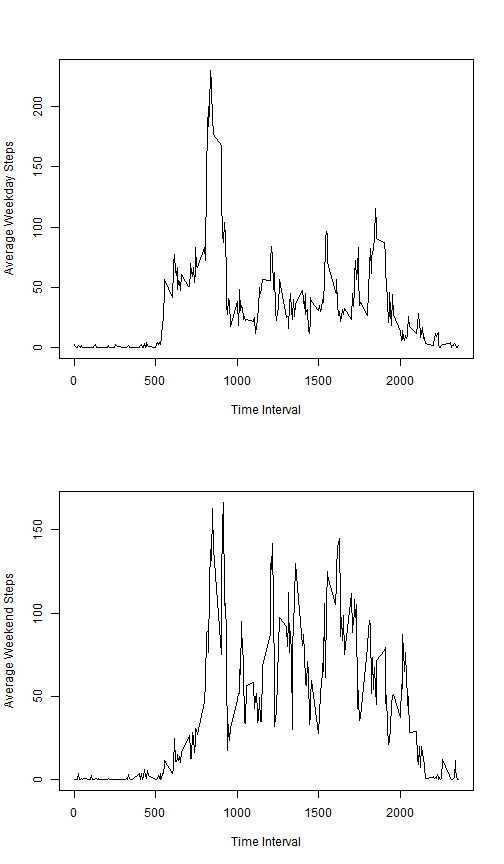
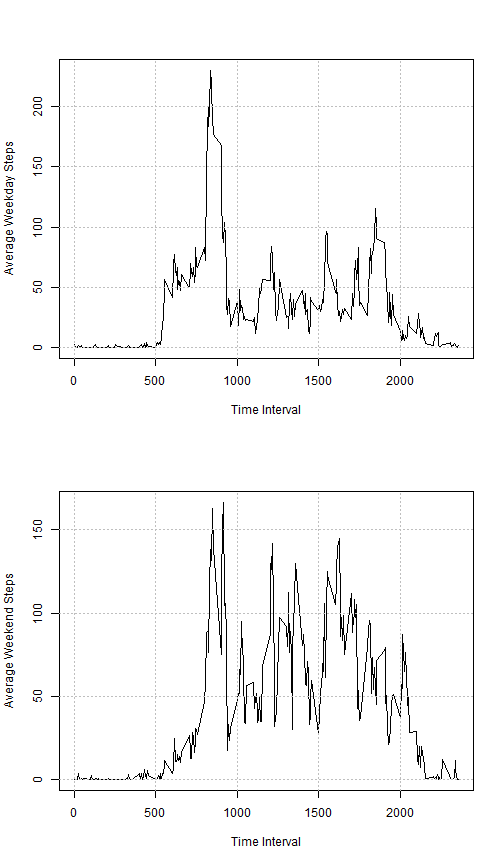
add gridlines to plots

diff --git a/PA1_template.html b/PA1_template.html
@@ -218,9 +218,10 @@ names(avg.steps)&lt;-c(&quot;interval&quot;,&quot;avgSteps&quot;)
 <h3>Time Series plot of 5-minute interval averages:</h3>
 
 <pre><code class="r">plot(avg.steps,type=&quot;l&quot;,xlab=&quot;Time Interval&quot;,ylab=&quot;Average Steps&quot;)
+grid(nx = NULL, ny = NULL, col = &quot;gray&quot;, lty = &quot;dotted&quot;)
 </code></pre>
 
[2 lines of base64/hex data omitted]
 
 <h3>5-minute interval with maximum average:</h3>
 
@@ -286,10 +287,12 @@ avg.weekend.steps&lt;-aggregate(m[m$dayType==&quot;weekend&quot;,2],by=list(m[m$
 
 <pre><code class="r">layout(1:2)
 plot(avg.weekday.steps,type=&quot;l&quot;,xlab=&quot;Time Interval&quot;,ylab=&quot;Average Weekday Steps&quot;)
+grid(nx = NULL, ny = NULL, col = &quot;gray&quot;, lty = &quot;dotted&quot;)
 plot(avg.weekend.steps,type=&quot;l&quot;,xlab=&quot;Time Interval&quot;,ylab=&quot;Average Weekend Steps&quot;)
+grid(nx = NULL, ny = NULL, col = &quot;gray&quot;, lty = &quot;dotted&quot;)
 </code></pre>
 
[2 lines of base64/hex data omitted]
 
 <p>The plots show that during the week most of the step activity is in the morning hours when preparing for work and commuting. The distribution for the weekend is spread out more evenly across the afternoon hours.</p>
 

diff --git a/PA1_template.md b/PA1_template.md
@@ -39,6 +39,7 @@ names(avg.steps)<-c("interval","avgSteps")
 
 ```r
 plot(avg.steps,type="l",xlab="Time Interval",ylab="Average Steps")
+grid(nx = NULL, ny = NULL, col = "gray", lty = "dotted")
 ```
 
 ![plot of chunk AvgStepsTimeSeries](figure/AvgStepsTimeSeries.png) 
@@ -106,7 +107,9 @@ avg.weekend.steps<-aggregate(m[m$dayType=="weekend",2],by=list(m[m$dayType=="wee
 ```r
 layout(1:2)
 plot(avg.weekday.steps,type="l",xlab="Time Interval",ylab="Average Weekday Steps")
+grid(nx = NULL, ny = NULL, col = "gray", lty = "dotted")
 plot(avg.weekend.steps,type="l",xlab="Time Interval",ylab="Average Weekend Steps")
+grid(nx = NULL, ny = NULL, col = "gray", lty = "dotted")
 ```
 
 ![plot of chunk AvgStepsweekdayWeekendTimeSeries](figure/AvgStepsweekdayWeekendTimeSeries.png) 
